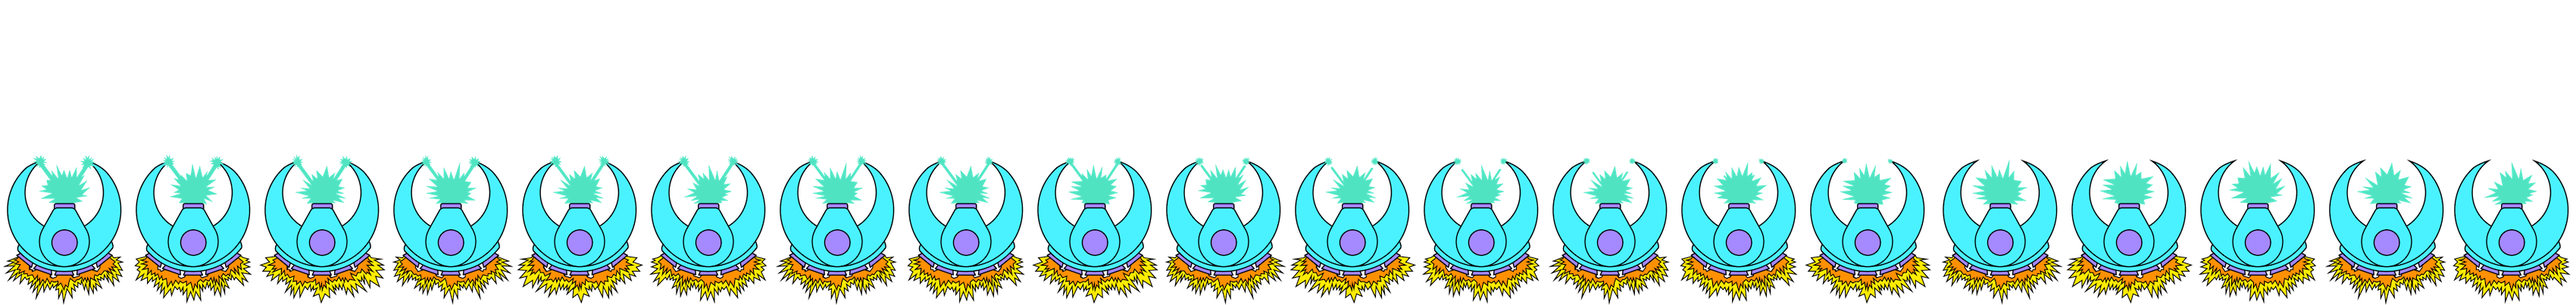
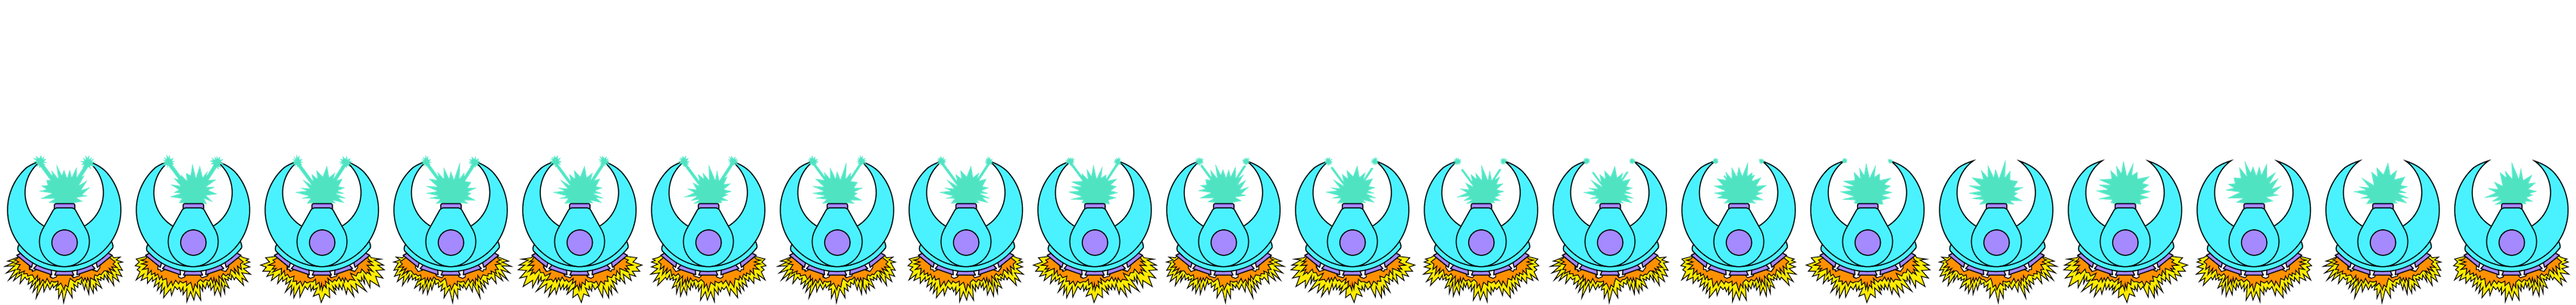
mothership animation

Changed region(s): [[0.7482, 0.5062, 0.9665, 0.9826]]

diff --git a/Code/core/src/edu/cornell/gdiac/controller/PlayMode.java b/Code/core/src/edu/cornell/gdiac/controller/PlayMode.java
@@ -110,6 +110,7 @@ public class PlayMode extends WorldController implements ContactListener {
     protected static final String MOTHERSHIP_FIREING_6 = "space/animations/mothership6.png";
     protected static final String MOTHERSHIP_FIREING_7 = "space/animations/mothership7.png";
     protected static final String MOTHERSHIP_FIREING_8 = "space/animations/mothership8.png";
+    protected static final String MOTHERSHIP_FIREING_9 = "space/animations/mothership9.png";
 
 
     /** The texture file for the planets */
@@ -399,6 +400,7 @@ public class PlayMode extends WorldController implements ContactListener {
     protected Animation<TextureRegion> MOTHERSHIP_FIRE_Animation_6; // Must declare frame type (TextureRegion)
     protected Animation<TextureRegion> MOTHERSHIP_FIRE_Animation_7; // Must declare frame type (TextureRegion)
     protected Animation<TextureRegion> MOTHERSHIP_FIRE_Animation_8; // Must declare frame type (TextureRegion)
+    protected Animation<TextureRegion> MOTHERSHIP_FIRE_Animation_9; // Must declare frame type (TextureRegion)
 
 
 
@@ -413,6 +415,7 @@ public class PlayMode extends WorldController implements ContactListener {
     protected Texture MOTHERSHIP_FIRE_Sheet_6;
     protected Texture MOTHERSHIP_FIRE_Sheet_7;
     protected Texture MOTHERSHIP_FIRE_Sheet_8;
+    protected Texture MOTHERSHIP_FIRE_Sheet_9;
 
 
     /** Planet texture */
@@ -626,6 +629,7 @@ public class PlayMode extends WorldController implements ContactListener {
         manager.load(MOTHERSHIP_FIREING_6, Texture.class);      assets.add(MOTHERSHIP_FIREING_6);
         manager.load(MOTHERSHIP_FIREING_7, Texture.class);      assets.add(MOTHERSHIP_FIREING_7);
         manager.load(MOTHERSHIP_FIREING_8, Texture.class);      assets.add(MOTHERSHIP_FIREING_8);
+        manager.load(MOTHERSHIP_FIREING_9, Texture.class);      assets.add(MOTHERSHIP_FIREING_9);
 
 
         manager.load(BACKG_FILE_MAIN, Texture.class);       assets.add(BACKG_FILE_MAIN);
@@ -768,6 +772,8 @@ public class PlayMode extends WorldController implements ContactListener {
         MOTHERSHIP_FIRE_Sheet_6 = new Texture(Gdx.files.internal(MOTHERSHIP_FIREING_6));
         MOTHERSHIP_FIRE_Sheet_7 = new Texture(Gdx.files.internal(MOTHERSHIP_FIREING_7));
         MOTHERSHIP_FIRE_Sheet_8 = new Texture(Gdx.files.internal(MOTHERSHIP_FIREING_8));
+        MOTHERSHIP_FIRE_Sheet_9 = new Texture(Gdx.files.internal(MOTHERSHIP_FIREING_9));
+
 
 
 
@@ -1415,7 +1421,7 @@ public class PlayMode extends WorldController implements ContactListener {
             sh.scalePicScale(new Vector2(.2f, .2f));
             int tag = -1;
             if (sh.getType() == 2) {
-                sh.scalePicScale(new Vector2(2f, 2f));
+                sh.scalePicScale(new Vector2(4.0f, 4.0f));
             }
             else if (sh.getType() ==1) {
                 sh.scalePicScale(new Vector2(1.5f, 1.5f));
@@ -1643,6 +1649,7 @@ public class PlayMode extends WorldController implements ContactListener {
         MOTHERSHIP_FIRE_Animation_6 = Anim_Tex(MOTHERSHIP_FIRE_Sheet_6, 20, 1, .05f);
         MOTHERSHIP_FIRE_Animation_7 = Anim_Tex(MOTHERSHIP_FIRE_Sheet_7, 20, 1, .05f);
         MOTHERSHIP_FIRE_Animation_8 = Anim_Tex(MOTHERSHIP_FIRE_Sheet_8, 20, 1, .05f);
+        MOTHERSHIP_FIRE_Animation_9 = Anim_Tex(MOTHERSHIP_FIRE_Sheet_9, 20, 1, .05f);
 
 
 
@@ -1657,9 +1664,9 @@ public class PlayMode extends WorldController implements ContactListener {
         FIRE_Array.add(MOTHERSHIP_FIRE_Animation_6);
         FIRE_Array.add(MOTHERSHIP_FIRE_Animation_7);
         FIRE_Array.add(MOTHERSHIP_FIRE_Animation_8);
-        FIRE_Array.add(MOTHERSHIP_FIRE_Animation_8);
-        FIRE_Array.add(MOTHERSHIP_FIRE_Animation_8);
-        FIRE_Array.add(MOTHERSHIP_FIRE_Animation_8);
+        FIRE_Array.add(MOTHERSHIP_FIRE_Animation_9);
+        FIRE_Array.add(MOTHERSHIP_FIRE_Animation_9);
+        FIRE_Array.add(MOTHERSHIP_FIRE_Animation_9);
 
 
 
@@ -1779,7 +1786,6 @@ public class PlayMode extends WorldController implements ContactListener {
                     planets.get(i).setType(1);
                     planets.get(i).setTexture(command_P_Texture);
                     convertPlanets.removeValue(planets.get(i), true);
-                    planets.get(i).getConverterShip().scalePicScale(new Vector2(.5f,.5f));
                     planets.get(i).getConverterShip().setConverting(false);
                     planets.get(i).getConverterShip().getMusic().stop();
                     planets.get(i).getConverterShip().setMusic(null);
@@ -1800,9 +1806,7 @@ public class PlayMode extends WorldController implements ContactListener {
                             }
                         }
                     }
-                    System.out.println("SET TO ZERO");
                     planets.get(i).getConverterShip().set_CONVERT_ST(0);
-                    planets.get(i).getConverterShip().scalePicScale(new Vector2(2f, 2f));
                 }
             }
         }
@@ -2074,9 +2078,6 @@ public class PlayMode extends WorldController implements ContactListener {
         sh.setMass(oldMass - suckSpeed);
         sh.setWidth(oldWidth*(sh.getMass()/oldMass));
         sh.setHeight(oldHeight*(sh.getMass()/oldMass));
-        if (aiController.getTargetPlanets().get(sh).isConverting()) {
-            sh.scalePicScale(new Vector2(.33333f, .33333f));
-        }
         sh.scalePicScale(new Vector2(sh.getWidth()/oldWidth, sh.getHeight()/oldHeight));
         if(sh.getMusic()!=null) {
             sh.getMusic().stop();
@@ -2526,11 +2527,9 @@ public class PlayMode extends WorldController implements ContactListener {
                         planet_explosion.get(0).set_sheet(EXP_Sheet);
                         planet_explosion.get(0).createEXPtex();
                         SoundController.getInstance().play(EXPLOSION_SOUND, EXPLOSION_SOUND, false, EFFECT_VOLUME);
-                        System.out.println("HERE");
                     }
                 }
                 if (planet_explosion.get(0).get_EXP_ST() > -1) {
-                    System.out.println(planet_explosion.get(0).get_EXP_ST());
                     if ((planet_explosion.get(0).get_EXP_ST()) >= (planet_explosion.get(0).get_EXP_anim().getAnimationDuration())) {
                         if (planet_explosion.get(0).getType() == 1f) {
                             for (ShipModel sh : planet_explosion.get(0).getShips()) {
@@ -2938,24 +2937,12 @@ public class PlayMode extends WorldController implements ContactListener {
                 if (((ShipModel) obj).getType()==2) {
                     if (((ShipModel) obj).get_CONVER_ST()>=0 && ((ShipModel) obj).isConverting()){
 
-                        System.out.println("FIRE ANIMATION");
-                        System.out.println(((ShipModel) obj).isConverting());
-
-
                         float convert_stateTime= ((ShipModel) obj).get_CONVER_ST();
                         float duration=MOTHERSHIP_FIRE_Animation.getAnimationDuration();
-                        //float convert_stateTime= aiController.getTargetPlanets().get(((ShipModel) obj)).getConvert();
-                        //float duration = 20;
-
-                        System.out.println("Convert State Time: "+convert_stateTime);
-                        System.out.println("Animation Duration: "+duration);
 
 
                         float section= convert_stateTime/duration;
                         float section_frame=convert_stateTime%duration;
-
-                        System.out.println("Section: "+(int)section);
-                        System.out.println("Section Frame: "+section_frame);
 
                         Animation<TextureRegion> currentAnim= FIRE_Array.get((int)section);
 
@@ -2966,7 +2953,6 @@ public class PlayMode extends WorldController implements ContactListener {
                     }
                     else {
                         currentFrame = MOTHERSHIP_Animation.getKeyFrame(stateTime, true);
-                        System.out.println("FIRE NORMAL ANIMATION");
                     }
                 }
                 else if (((ShipModel) obj).getType()==1) {

diff --git a/Code/core/src/edu/cornell/gdiac/model/PlanetModel.java b/Code/core/src/edu/cornell/gdiac/model/PlanetModel.java
@@ -276,8 +276,8 @@ public class PlanetModel extends WheelObstacle{
             converterShip.setConverting(true);
             float oldPlanMass = getMass();
             float oldRad = getRadius();
-            float suckSpeed = 0.03f;
-            if (getRadius() > 1.2f) {
+            float suckSpeed = .15f;
+            if (getRadius() > 1.6f && getConvert()>320) {
                 setRadius((float) Math.sqrt((oldPlanMass - suckSpeed) / Math.PI));
                 scalePicScale(new Vector2(getRadius() / oldRad, getRadius() / oldRad));
             }
